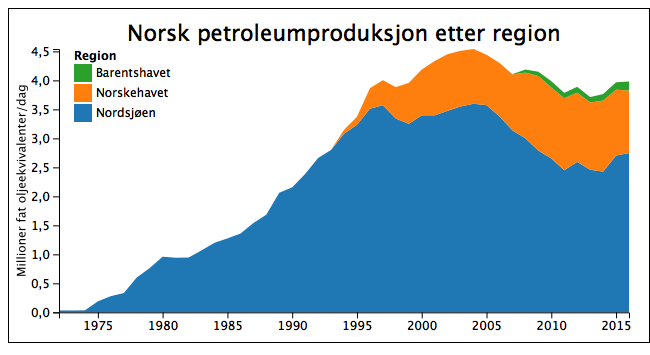
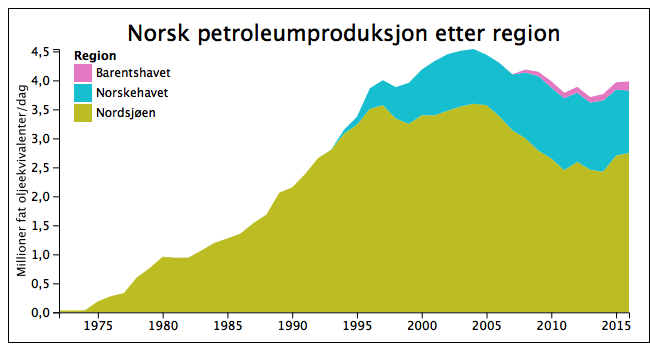
Different colors for region

diff --git a/vis/entry.js b/vis/entry.js
@@ -48,8 +48,8 @@ function show_resource(resource, group, unit, file) {
     var y = d3.scaleLinear()
         .range([height, 0]);
 
-    var z = d3.scaleOrdinal(d3.schemeCategory10);
-
+    var colorscheme = group === 'funntiår' ? d3.schemeCategory10 : ["#bcbd22", "#17becf", "#e377c2"];
+    var z = d3.scaleOrdinal(colorscheme);
     var stack = d3.stack();
 
     var area = d3.area()
